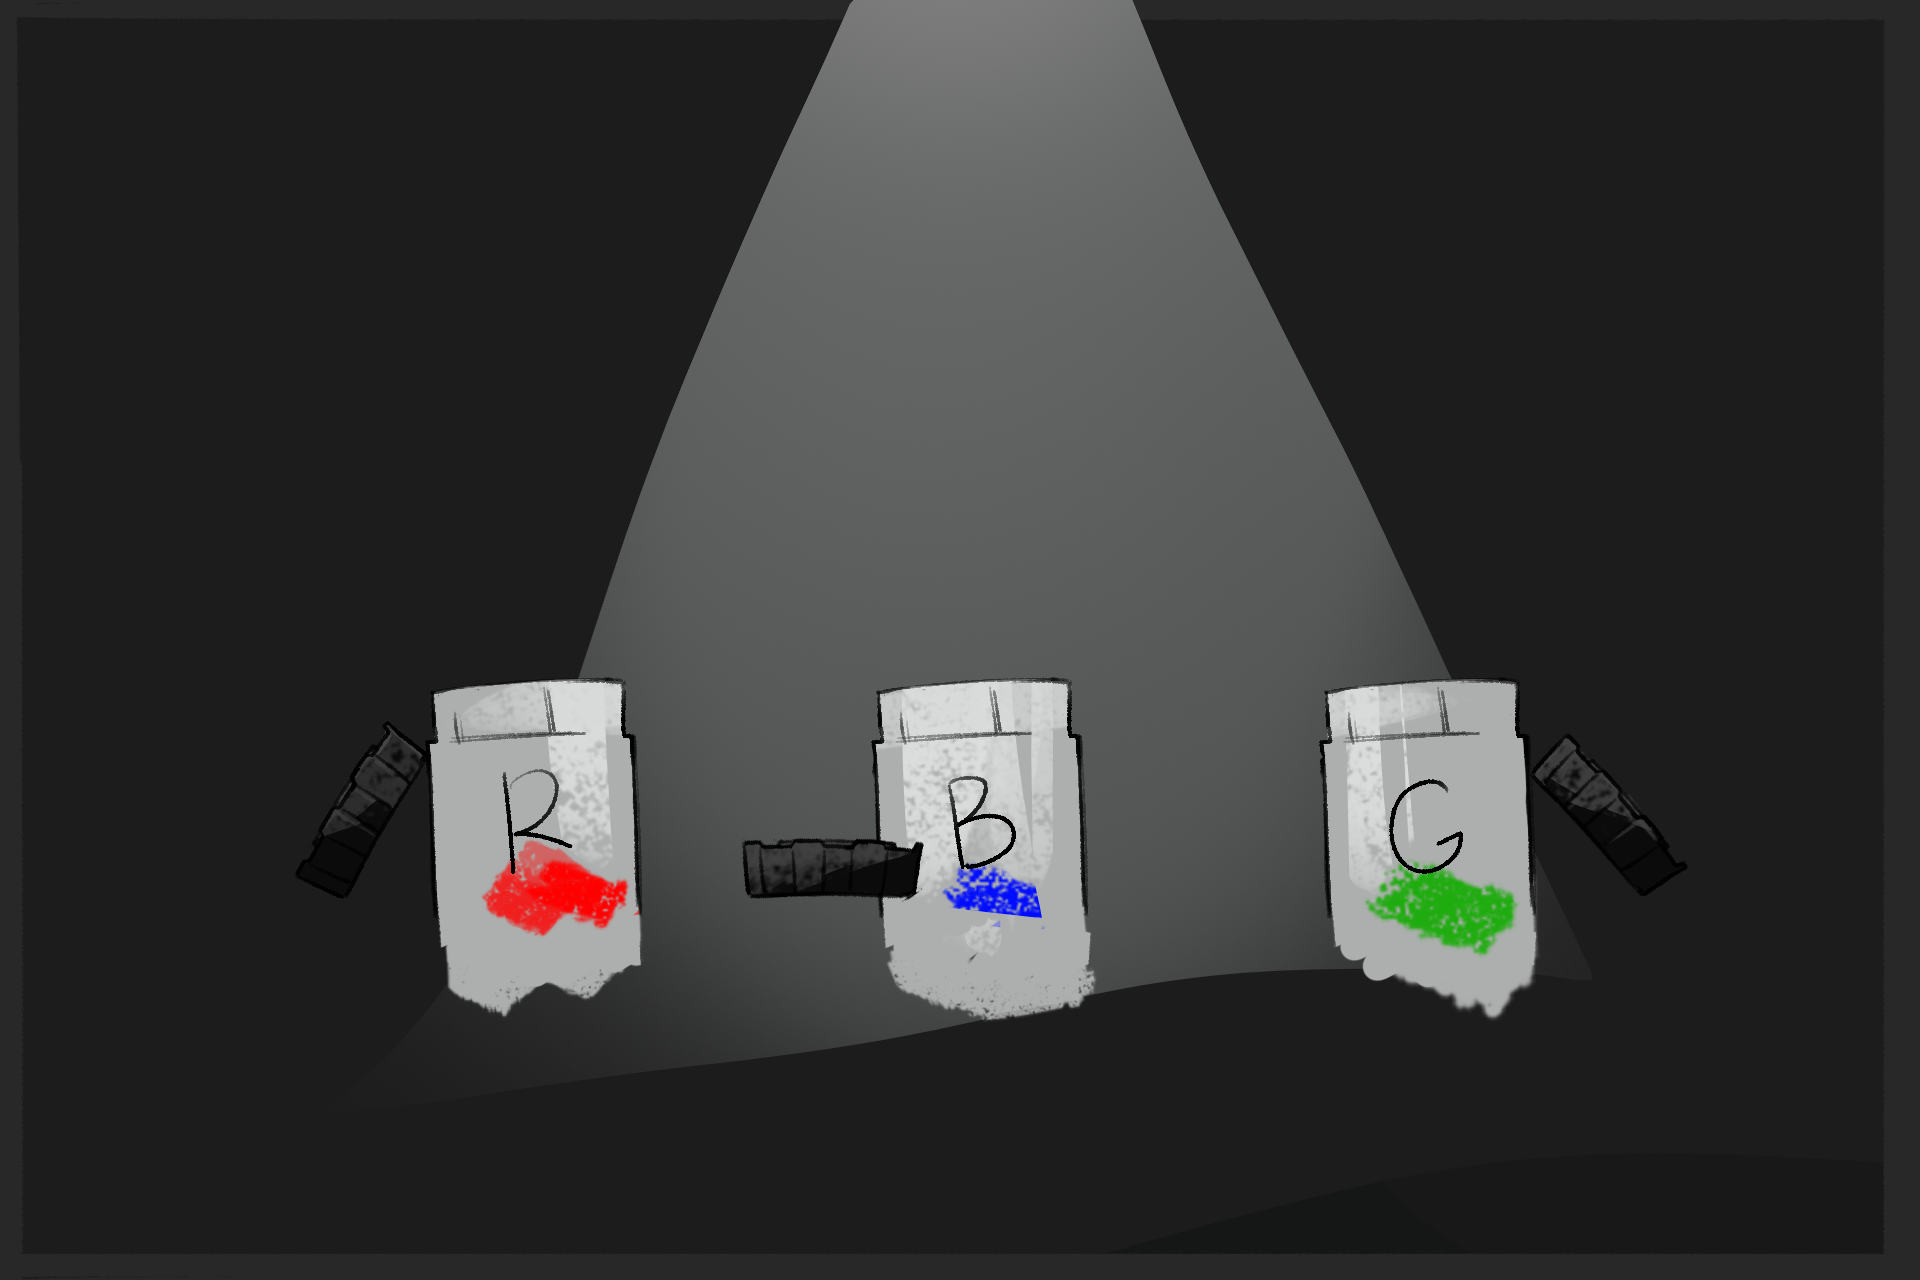
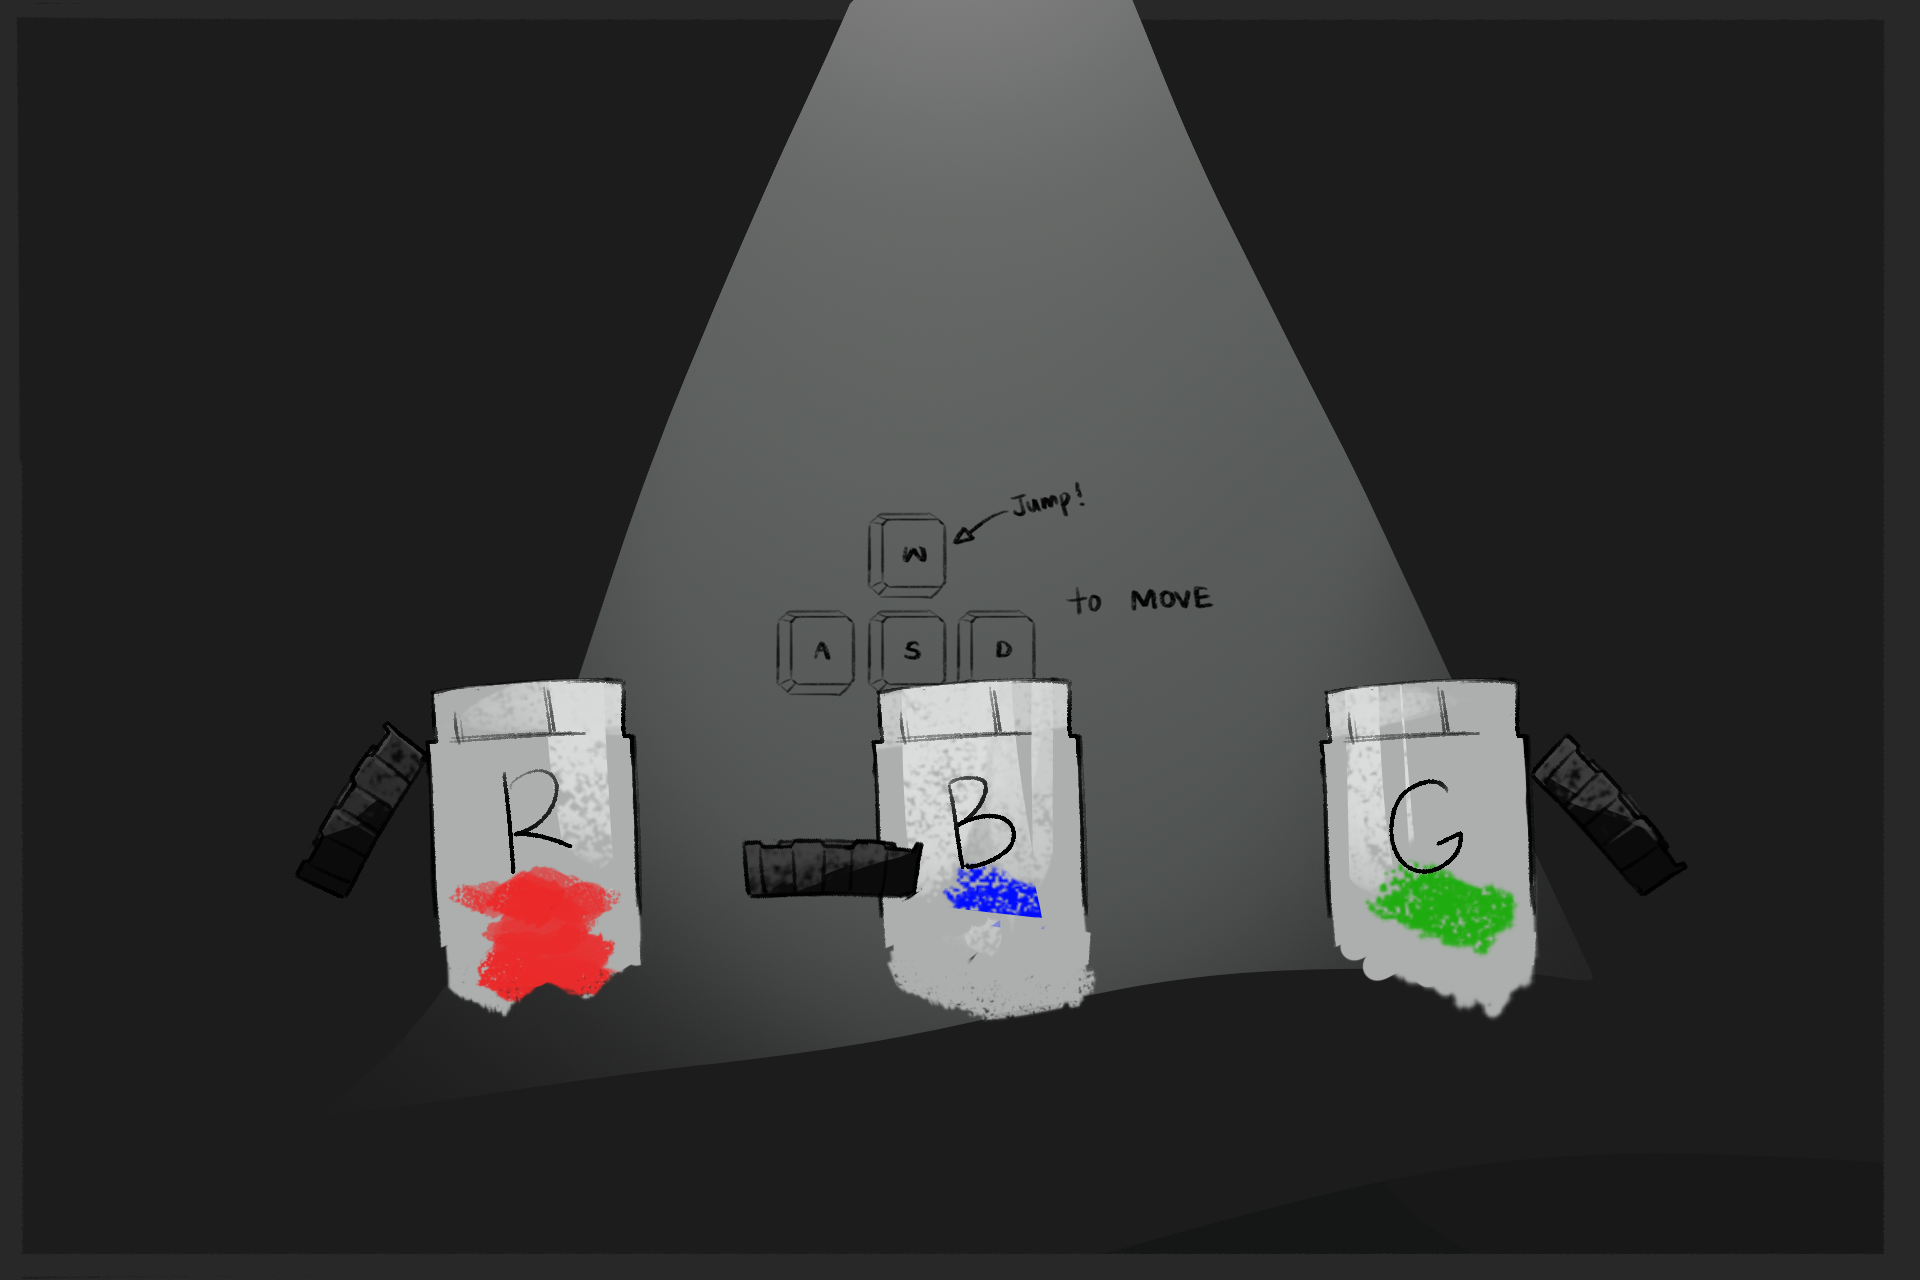
updated background (added guides) and level one dialogue guides

diff --git a/colourIT.py b/colourIT.py
@@ -2027,7 +2027,7 @@ def main():
                             show_new_game_warning = False
                             page = 5
                             pause = False
-                            dialogue_box.start_dialogue("You", "I need to bring back colour to the world!")
+                            dialogue_box.start_dialogue("Key functions: Press", "SPACEBAR to attack", "I to open inventory", "ESC to pause")
                         if NO_BUTTON.collidepoint(mouse_pos):
                             show_new_game_warning = False
                     else:
@@ -2061,7 +2061,7 @@ def main():
 
                                     page = 5
                                     pause = False
-                                    dialogue_box.start_dialogue("You", "I need to bring back colour to the world!")
+                                    dialogue_box.start_dialogue("Key functions: Press", "SPACEBAR to attack or deflect enemy's shard, I to open inventory, ESC to pause")
                         if LOAD_GAME_BUTTON.collidepoint(mouse_pos):
                             if if_save_exists():
                                 enemies, collectibles, page = load_game(player)
